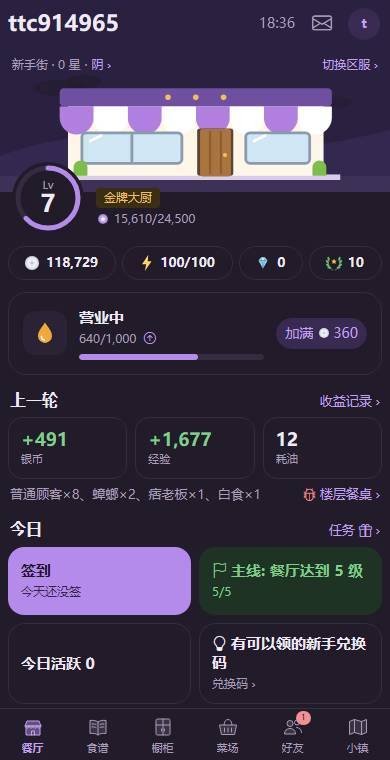
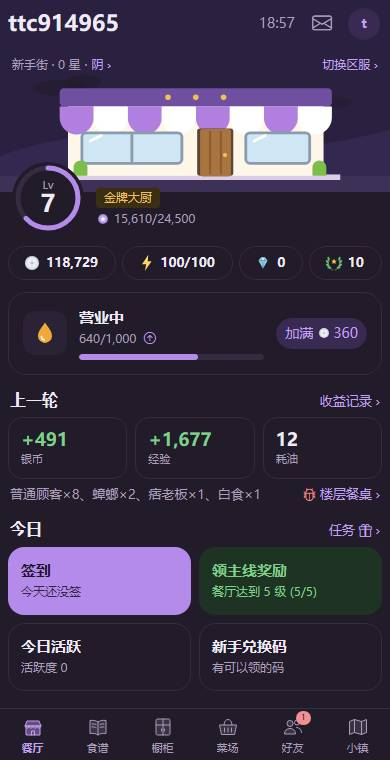
docs: P5 返工后的截图

diff --git a/docs/design/改版-P5/README.md b/docs/design/改版-P5/README.md
@@ -22,3 +22,18 @@
 | 法文 | ![](./home-closed-fr-360-light-before.jpg) | ![](./home-closed-fr-360-light-after.jpg) |
 | 英文 | ![](./home-closed-en-360-light-before.jpg) | ![](./home-closed-en-360-light-after.jpg) |
 | 西文 | ![](./home-closed-es-360-light-before.jpg) | ![](./home-closed-es-360-light-after.jpg) |
+
+## 返工后整页（简中 390px，停业；截图时拦截概况接口，补上交易所大宗认购、理财到期、资产，好看提醒行的排版）
+
+用户看过第一版指出：今日块整句加粗、交易所那几行图标文字链接混在一起、“我的店”的“收购”还是右侧文字链接、下面几块完全没改。返工后：
+
+- 今日 2×2 每块一个短标题（签到、主线 / 领主线奖励、今日活跃、新手兑换码），细节写在灰色副行。
+- 活动、交易所（大宗认购）、白食、理财到期、我的店、经营开关都用同一种行：左边图标托盘，标题和灰色副行，右边值或开关，整行可点时右边一个 ›。资产整行去收购，右边写资产数。
+- 餐厅动态、小镇新闻、设施、经营开关、生效的加成都改成卡片外的区块标题。
+- 设施：开了的位置一格一个；没开的收成一排小格子（图形 + “12★”），整页从 1869px 缩到 1718px。
+
+| 浅色 | 深色 |
+|---|---|
+| ![](./home-full-light-0-after.jpg) | ![](./home-full-dark-0-after.jpg) |
+| ![](./home-full-light-1-after.jpg) | ![](./home-full-dark-1-after.jpg) |
+| ![](./home-full-light-2-after.jpg) | ![](./home-full-dark-2-after.jpg) |
